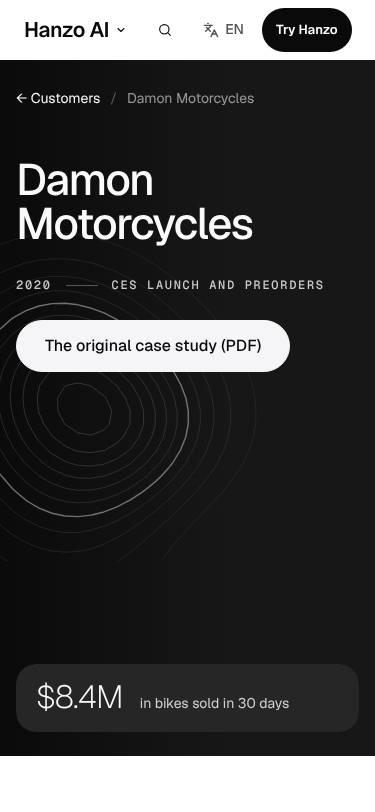
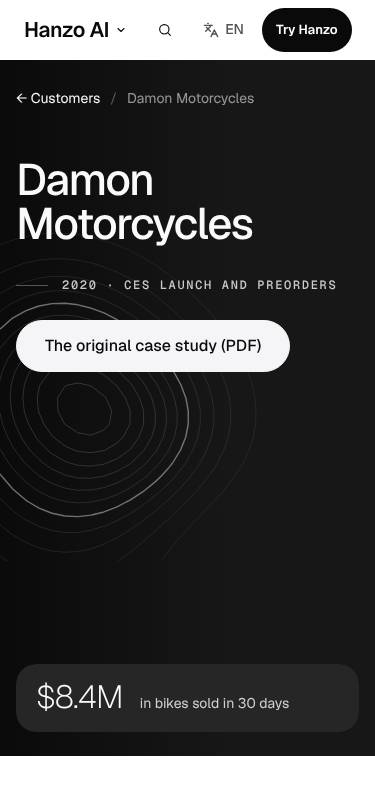
customers-family: Ready — copycheck missing 0 on both members (meta line printed whole)
Claude-Session: https://claude.ai/code/session_01P5YBdx19ukLv4B41yE4M3v

Changed region(s): [[0.2933, 0.3387, 0.9093, 0.3695], [0.0293, 0.3387, 0.1467, 0.3695], [0.176, 0.3387, 0.264, 0.3695]]

diff --git a/components/pages/story/Story.css b/components/pages/story/Story.css
@@ -47,7 +47,8 @@
 .xst-hero-t { position: absolute; left: 0; right: 0; top: calc(38% - 80px); }
 .xst-h1 { margin: 0; font-size: 84px; font-weight: 497; letter-spacing: -.035em; line-height: .98; text-wrap: balance; color: #fafafa; transform-origin: 0 100%; }
 .xst-meta { display: flex; align-items: center; gap: 14px; margin-top: 27px; color: rgba(255, 255, 255, .78); }
-.xst-meta i { width: 32px; height: 1px; background: rgba(255, 255, 255, .3); }
+/* Hanzo's line as it prints it ("2020 · CES launch and preorders"), led in by a short hairline */
+.xst-meta::before { content: ''; flex: none; width: 32px; height: 1px; background: rgba(255, 255, 255, .3); }
 .xst-ask { margin-top: 27px; }
 /* the bare room's object (the picture could not load): Hanzo's lead figure on a graphite plate, lower right */
 .xst-ledger { position: absolute; right: 0; bottom: 44px; width: min(360px, 32%); display: flex; flex-direction: column; padding: 27px; border-radius: 20px; background: #262626; color: #fafafa; }

diff --git a/components/pages/story/Story.jsx b/components/pages/story/Story.jsx
@@ -150,7 +150,7 @@ function Hero({ doc, ask }) {
           <motion.h1 id="xst-h1" className="xst-h1" style={calm ? undefined : { scale: settle }}>
             <span className="x-line"><motion.span className="x-line-in" initial={{ y: '105%' }} animate={{ y: 0 }} transition={{ duration: 0.7, ease: EM, delay: 0.2 }}>{doc.name}</motion.span></span>
           </motion.h1>
-          <p className="xst-meta x-mono"><span>{doc.year}</span><i aria-hidden="true" /><span>{doc.kind}</span></p>
+          <p className="xst-meta x-mono"><span>{doc.year} · {doc.kind}</span></p>
           {ask && <Cta to={ask.href} id="customers.hero" size="lg" thumb className="xst-ask">{ask.label}</Cta>}
         </div>
         {bare && doc.figures.length > 0 && <Ledger figures={doc.figures} calm={calm} />}

diff --git a/docs/review/customers-family.md b/docs/review/customers-family.md
@@ -1,6 +1,6 @@
 # /customers/[slug] — James-eye review
 
-Was ready (7 Nov), withdrawn 8 Nov: copycheck.mjs shows Hanzo lines missing (docs/COPY-RULE.md). 2026-11-07 walked both members (damon-motorcycles, kanoa): the room holds only Hanzo's lead figure (under the name and ask on phones) and the full set lives once in the figures row; chapters rotate four compositions (words left / plate left / wide plate over two columns / narrow portrait plate, last text-only); outgoing words leave before each wipe and incoming words now fade up only as their sheet lands, so no headline is sliced and no waiting chapter sits on the page; every missing plate carries its contour, bare room decided at 1.2s, $8.4M has its source line. Figure press travels and marks, next card opens KANOA. taste OK, parity 37/37 + 2/2 and 26/26 + 2/2, unique OK, check.mjs 0 errors / 0 overlaps / no h-scroll on both members at 1470 and 375 (Damon desktop had 15 overlap flags from waiting chapters before the fade change); reduced motion 0 running animations.
+Ready: 2026-11-08 copycheck missing 0 of 21 (Damon) and 0 of 14 (KANOA) (COPY-RULE): the room's meta now prints Hanzo's line whole ("2020 · CES launch and preorders" / "2015 · Crowdfunding and preorders"), its hairline moved to a lead-in rule; every picture Hanzo shows is referenced (13/13 Damon, 6/6 KANOA; the photos 404 in this sandbox and show their contour plates); chapter words still arrive with their sheet; taste OK, unique OK, parity 37/37 + 2/2 and 26/26 + 2/2, check.mjs 0 errors / 0 overlaps / no h-scroll on both members at 1470 and 375, reduced motion 0 running animations.
 
 Verdict: 7/10
 First complaint: "It shows me the same four numbers twice in a row, once in the black box and again straight underneath. Then it's six screens that all look the same: text on the left, a grey box on the right."
